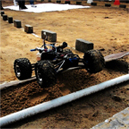
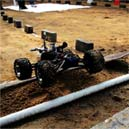
images optimized

diff --git a/media/style/style.css b/media/style/style.css
@@ -13,7 +13,7 @@ body
 	background-image:url(../images/texture.jpg);
 }
 #header{
-	background:url(../images/header-bg.jpg);
+	background:url(../images/texture.jpg);
 	background-repeat:repeat;
 	width:99%;
 	margin-right: 0.25%;
@@ -139,6 +139,7 @@ body
 	width:100%;
 	height:170px;
 	background-color:#080808;
+	overflow-x:auto;
 }
 #menu
 {
